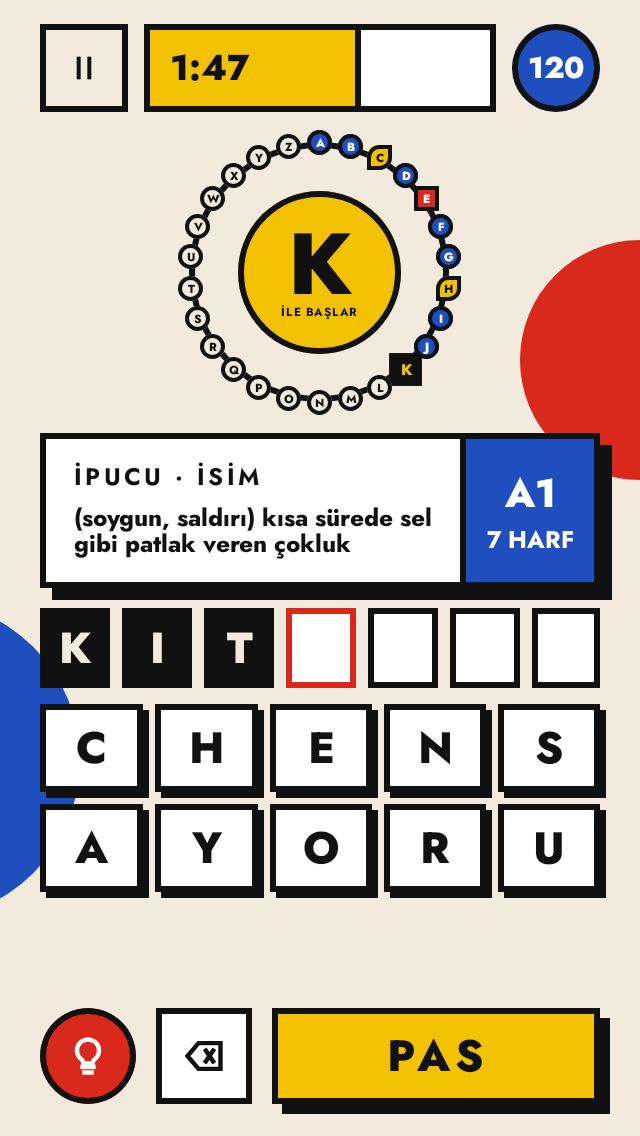
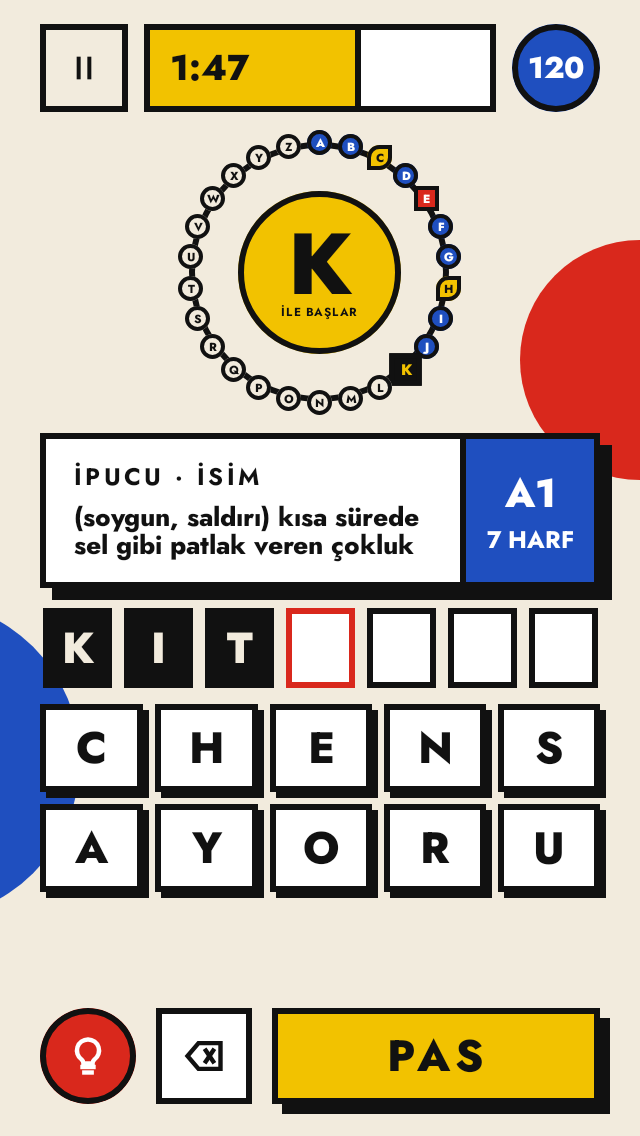
fix(game): keep long answers inside the slot row at fractional densities
Slot widths are now computed in whole pixels, as the row places them, so twelve
rounded-up slots can no longer overflow the row and squeeze the last one (seen
at scaled densities). Re-records the 320 x 568 baselines, which were also stale
since the clue fitting fix.

diff --git a/feature/game/src/commonMain/kotlin/dev/talhabayhan/lexi/feature/game/components/GameBoard.kt b/feature/game/src/commonMain/kotlin/dev/talhabayhan/lexi/feature/game/components/GameBoard.kt
@@ -17,10 +17,10 @@ import androidx.compose.ui.Modifier
 import androidx.compose.ui.graphics.graphicsLayer
 import androidx.compose.ui.layout.LayoutCoordinates
 import androidx.compose.ui.layout.onPlaced
+import androidx.compose.ui.platform.LocalDensity
 import androidx.compose.ui.semantics.clearAndSetSemantics
 import androidx.compose.ui.semantics.contentDescription
 import androidx.compose.ui.unit.Dp
-import androidx.compose.ui.unit.min
 import dev.talhabayhan.lexi.core.designsystem.component.AnswerSlot
 import dev.talhabayhan.lexi.core.designsystem.component.AnswerSlotDefaults
 import dev.talhabayhan.lexi.core.designsystem.component.AnswerSlotState
@@ -120,8 +120,13 @@ internal fun AnswerSlots(
     val firstFlying = flying.minOrNull()
     BoxWithConstraints(modifier.fillMaxWidth(), contentAlignment = Alignment.Center) {
         val cells = words.sumOf { it.size }
-        val gaps = AnswerSlotDefaults.Gap * (cells - words.size) + GameScreenDefaults.AnswerWordGap * (words.size - 1)
-        val slotWidth = min(AnswerSlotDefaults.Width, (maxWidth - gaps) / cells.coerceAtLeast(1))
+        // In whole pixels, as the row places them: rounded slot widths must never add up to more than the row.
+        val density = LocalDensity.current
+        val slotWidth = with(density) {
+            val gaps = AnswerSlotDefaults.Gap.roundToPx() * (cells - words.size) +
+                GameScreenDefaults.AnswerWordGap.roundToPx() * (words.size - 1)
+            minOf(AnswerSlotDefaults.Width.roundToPx(), (constraints.maxWidth - gaps) / cells.coerceAtLeast(1)).toDp()
+        }
         val baseStyle = LexiTheme.typography.slotLetter
         val textScale = minOf(slotWidth / AnswerSlotDefaults.Width, height / AnswerSlotDefaults.Height)
         val textStyle = if (textScale < 1f) {
